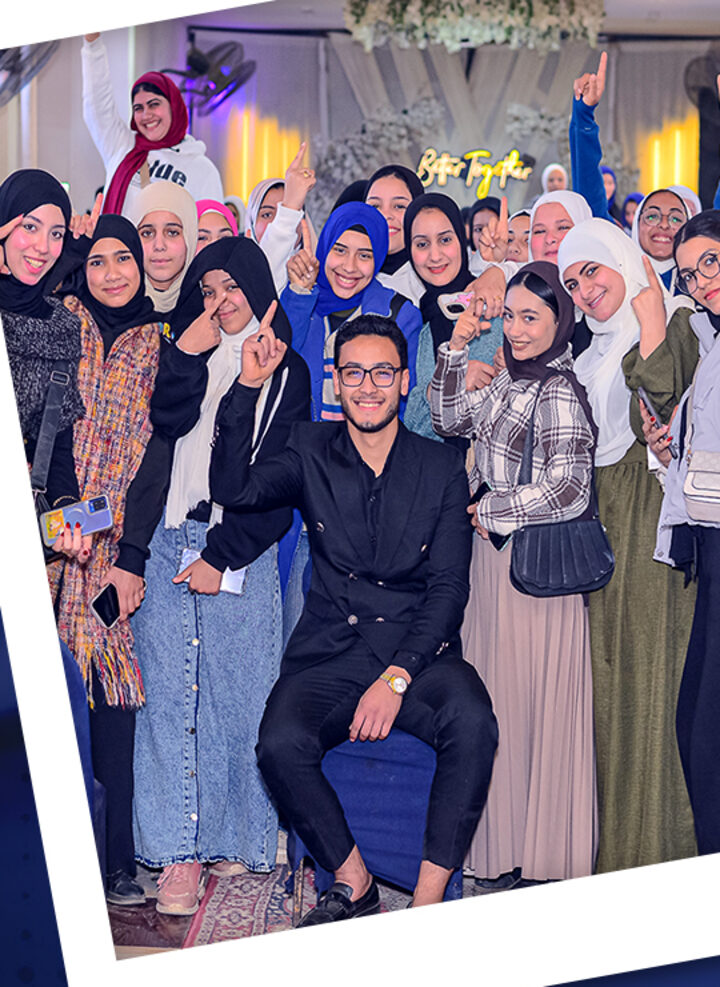
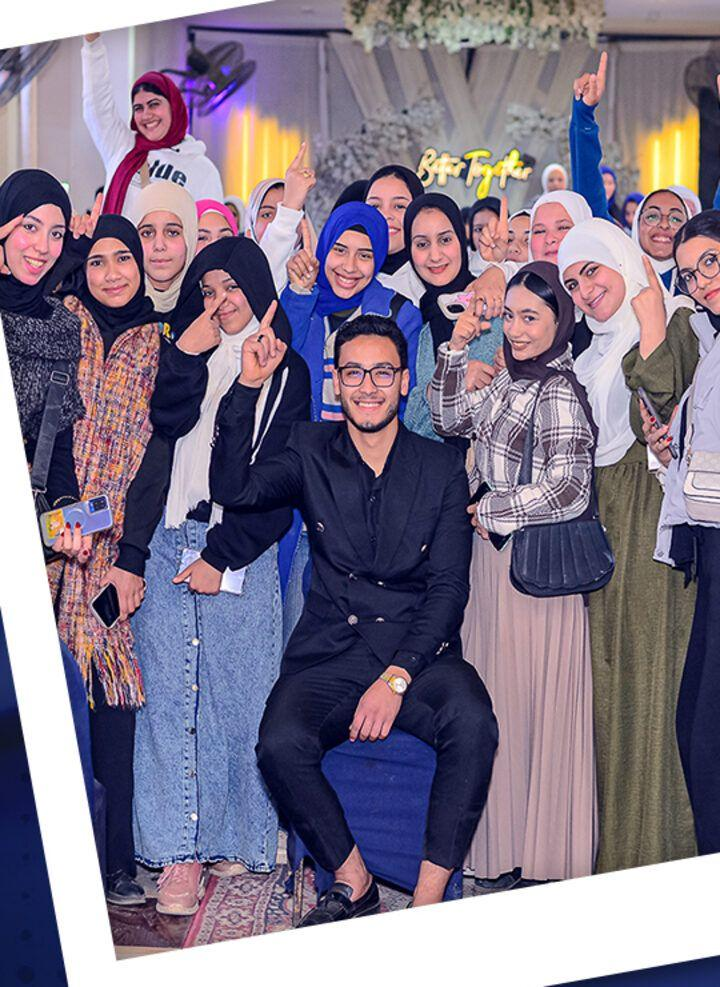
Add governorate to booking form, add honor photos section, optimize images
- Add المحافظة custom select + validation + WhatsApp message field
- Add honor-01..17 photo gallery section and rename uploaded photos
- Recompress/resize all JPEGs and lazy-load every non-critical image

diff --git a/index.html b/index.html
@@ -840,7 +840,7 @@
           <h2 class="section-title">الإدارة والتنظيم</h2>
         </div>
         <div class="teacher">
-          <img src="assets/img/portrait.jpg" alt="Mr Ahmed Ali — مؤسس أكاديمية P2S" />
+          <img src="assets/img/portrait.jpg" alt="Mr Ahmed Ali — مؤسس أكاديمية P2S" loading="lazy" decoding="async" />
           <div>
             <h3>Mr Ahmed Ali</h3>
             <div class="role">مؤسس أكاديمية P2S Academy – Path to Success</div>
@@ -909,6 +909,46 @@
               </div>
               <small class="field-error" data-error="year"></small>
             </div>
+          </div>
+          <div class="field">
+            <span>المحافظة</span>
+            <div class="cselect" data-required>
+              <button class="cselect-btn" type="button" aria-haspopup="listbox" aria-expanded="false">
+                <span class="cselect-label">اختر</span>
+                <svg class="cselect-caret" viewBox="0 0 24 24" fill="none" stroke="currentColor" stroke-width="2.5" stroke-linecap="round" stroke-linejoin="round" aria-hidden="true"><path d="m6 9 6 6 6-6"/></svg>
+              </button>
+              <ul class="cselect-menu" role="listbox" aria-label="المحافظة">
+                <li role="option" data-value="القاهرة" aria-selected="false">القاهرة</li>
+                <li role="option" data-value="الجيزة" aria-selected="false">الجيزة</li>
+                <li role="option" data-value="الإسكندرية" aria-selected="false">الإسكندرية</li>
+                <li role="option" data-value="الدقهلية" aria-selected="false">الدقهلية</li>
+                <li role="option" data-value="البحر الأحمر" aria-selected="false">البحر الأحمر</li>
+                <li role="option" data-value="البحيرة" aria-selected="false">البحيرة</li>
+                <li role="option" data-value="الفيوم" aria-selected="false">الفيوم</li>
+                <li role="option" data-value="الغربية" aria-selected="false">الغربية</li>
+                <li role="option" data-value="الإسماعيلية" aria-selected="false">الإسماعيلية</li>
+                <li role="option" data-value="المنوفية" aria-selected="false">المنوفية</li>
+                <li role="option" data-value="المنيا" aria-selected="false">المنيا</li>
+                <li role="option" data-value="القليوبية" aria-selected="false">القليوبية</li>
+                <li role="option" data-value="الوادي الجديد" aria-selected="false">الوادي الجديد</li>
+                <li role="option" data-value="السويس" aria-selected="false">السويس</li>
+                <li role="option" data-value="أسوان" aria-selected="false">أسوان</li>
+                <li role="option" data-value="أسيوط" aria-selected="false">أسيوط</li>
+                <li role="option" data-value="بني سويف" aria-selected="false">بني سويف</li>
+                <li role="option" data-value="بورسعيد" aria-selected="false">بورسعيد</li>
+                <li role="option" data-value="دمياط" aria-selected="false">دمياط</li>
+                <li role="option" data-value="الشرقية" aria-selected="false">الشرقية</li>
+                <li role="option" data-value="جنوب سيناء" aria-selected="false">جنوب سيناء</li>
+                <li role="option" data-value="كفر الشيخ" aria-selected="false">كفر الشيخ</li>
+                <li role="option" data-value="مطروح" aria-selected="false">مطروح</li>
+                <li role="option" data-value="الأقصر" aria-selected="false">الأقصر</li>
+                <li role="option" data-value="قنا" aria-selected="false">قنا</li>
+                <li role="option" data-value="شمال سيناء" aria-selected="false">شمال سيناء</li>
+                <li role="option" data-value="سوهاج" aria-selected="false">سوهاج</li>
+              </ul>
+              <input type="hidden" name="gov" value="" />
+            </div>
+            <small class="field-error" data-error="gov"></small>
           </div>
           <div class="booking-foot">
             <button class="btn btn-primary" type="submit">ابعت وهنكلّمك</button>
@@ -1089,18 +1129,18 @@
     <div class="section" style="padding-top:30px">
       <div class="wrap">
         <figure class="feature">
-          <img src="assets/img/duo.jpg" alt="طلاب P2S مع مستر أحمد علي في يوم إطلاق الأكاديمية" />
+          <img src="assets/img/duo.jpg" alt="طلاب P2S مع مستر أحمد علي في يوم إطلاق الأكاديمية" loading="lazy" decoding="async" />
           <figcaption><b>يوم إطلاق P2S في كفر الزيات</b><span>بدأنا رحلتنا معاكم — وبدأنا المشوار.</span></figcaption>
         </figure>
 
         <div class="masonry">
-          <figure><img src="assets/img/group.jpg" alt="مستر أحمد علي وسط طلاب P2S" loading="lazy" /><figcaption>أول دفعة مع مستر أحمد</figcaption></figure>
-          <figure class="polaroid"><img src="assets/img/portrait.jpg" alt="مستر أحمد علي" loading="lazy" /><figcaption>مستر أحمد علي — مؤسس P2S</figcaption></figure>
-          <figure><img src="assets/img/faces.jpg" alt="طلاب مبتسمين في يوم الإطلاق" loading="lazy" /><figcaption>الضحكة اللي بعد أول محاضرة</figcaption></figure>
-          <figure><img src="assets/img/laugh.jpg" alt="طلاب في قاعة الاحتفال" loading="lazy" /><figcaption>قاعة الإطلاق</figcaption></figure>
-          <figure><img src="assets/img/cheer.jpg" alt="طلاب بيرفعوا إيديهم في الاحتفال" loading="lazy" /><figcaption>الكلام في الآخر واحد</figcaption></figure>
-          <figure><img src="assets/img/crowd.jpg" alt="مجموعة طلاب P2S" loading="lazy" /><figcaption>دفعة ٢٠٢٦</figcaption></figure>
-          <figure><img src="assets/img/launch.jpg" alt="بوستر إطلاق أكاديمية P2S" loading="lazy" /><figcaption>بوستر «ابدأ رحلتنا معاكم»</figcaption></figure>
+          <figure><img src="assets/img/group.jpg" alt="مستر أحمد علي وسط طلاب P2S" loading="lazy" decoding="async" /><figcaption>أول دفعة مع مستر أحمد</figcaption></figure>
+          <figure class="polaroid"><img src="assets/img/portrait.jpg" alt="مستر أحمد علي" loading="lazy" decoding="async" /><figcaption>مستر أحمد علي — مؤسس P2S</figcaption></figure>
+          <figure><img src="assets/img/faces.jpg" alt="طلاب مبتسمين في يوم الإطلاق" loading="lazy" decoding="async" /><figcaption>الضحكة اللي بعد أول محاضرة</figcaption></figure>
+          <figure><img src="assets/img/laugh.jpg" alt="طلاب في قاعة الاحتفال" loading="lazy" decoding="async" /><figcaption>قاعة الإطلاق</figcaption></figure>
+          <figure><img src="assets/img/cheer.jpg" alt="طلاب بيرفعوا إيديهم في الاحتفال" loading="lazy" decoding="async" /><figcaption>الكلام في الآخر واحد</figcaption></figure>
+          <figure><img src="assets/img/crowd.jpg" alt="مجموعة طلاب P2S" loading="lazy" decoding="async" /><figcaption>دفعة ٢٠٢٦</figcaption></figure>
+          <figure><img src="assets/img/launch.jpg" alt="بوستر إطلاق أكاديمية P2S" loading="lazy" decoding="async" /><figcaption>بوستر «ابدأ رحلتنا معاكم»</figcaption></figure>
           <figure class="note-card"><div class="q">«دول كانوا زيكم بالظبط — الفرق إنهم استغلوا الفرصة صح.»</div><div class="s">مستر أحمد علي</div></figure>
         </div>
 
@@ -1117,6 +1157,37 @@
         </div>
       </div>
     </div>
+
+    <div class="section section-alt">
+      <div class="wrap">
+        <div class="section-head split">
+          <div>
+            <div class="eyebrow">تكريم الطلاب</div>
+            <h2 class="section-title">لحظات التكريم</h2>
+          </div>
+          <p class="section-lead">صور من تكريم طلاب P2S — شهادات ولوحات تقدير من مستر أحمد علي.</p>
+        </div>
+        <div class="masonry">
+          <figure><img src="assets/p2s-photos/honor-01.jpg" alt="تكريم طالب من P2S مع مستر أحمد علي" loading="lazy" decoding="async" /><figcaption>لحظة تكريم</figcaption></figure>
+          <figure><img src="assets/p2s-photos/honor-02.jpg" alt="شهادة تقدير لطالب من P2S" loading="lazy" decoding="async" /><figcaption>شهادة تقدير</figcaption></figure>
+          <figure><img src="assets/p2s-photos/honor-03.jpg" alt="تكريم طالبة من P2S مع مستر أحمد علي" loading="lazy" decoding="async" /><figcaption>من حفل التكريم</figcaption></figure>
+          <figure><img src="assets/p2s-photos/honor-04.jpg" alt="طالبة من P2S تستلم شهادة التقدير" loading="lazy" decoding="async" /><figcaption>شهادة تقدير</figcaption></figure>
+          <figure><img src="assets/p2s-photos/honor-05.jpg" alt="تكريم طالب من P2S مع مستر أحمد علي" loading="lazy" decoding="async" /><figcaption>لحظة تكريم</figcaption></figure>
+          <figure><img src="assets/p2s-photos/honor-06.jpg" alt="طالب من P2S يحمل لوحة تقدير" loading="lazy" decoding="async" /><figcaption>لوحة تقدير</figcaption></figure>
+          <figure><img src="assets/p2s-photos/honor-07.jpg" alt="تكريم طالبة من P2S" loading="lazy" decoding="async" /><figcaption>من حفل التكريم</figcaption></figure>
+          <figure><img src="assets/p2s-photos/honor-08.jpg" alt="طالب من P2S يحمل لوحة تقدير" loading="lazy" decoding="async" /><figcaption>لوحة تقدير</figcaption></figure>
+          <figure><img src="assets/p2s-photos/honor-09.jpg" alt="تكريم طالبة من P2S مع مستر أحمد علي" loading="lazy" decoding="async" /><figcaption>لحظة تكريم</figcaption></figure>
+          <figure><img src="assets/p2s-photos/honor-10.jpg" alt="تكريم طالبة من P2S" loading="lazy" decoding="async" /><figcaption>من حفل التكريم</figcaption></figure>
+          <figure><img src="assets/p2s-photos/honor-11.jpg" alt="تكريم طالبة من P2S مع مستر أحمد علي" loading="lazy" decoding="async" /><figcaption>لحظة تكريم</figcaption></figure>
+          <figure><img src="assets/p2s-photos/honor-12.jpg" alt="طالبة من P2S تستلم شهادة التقدير" loading="lazy" decoding="async" /><figcaption>شهادة تقدير</figcaption></figure>
+          <figure><img src="assets/p2s-photos/honor-13.jpg" alt="طالب من P2S يحمل لوحة تقدير" loading="lazy" decoding="async" /><figcaption>لوحة تقدير</figcaption></figure>
+          <figure><img src="assets/p2s-photos/honor-14.jpg" alt="مستر أحمد علي مع طالب من P2S" loading="lazy" decoding="async" /><figcaption>من حفل التكريم</figcaption></figure>
+          <figure><img src="assets/p2s-photos/honor-15.jpg" alt="تكريم طالبة من P2S مع مستر أحمد علي" loading="lazy" decoding="async" /><figcaption>لحظة تكريم</figcaption></figure>
+          <figure><img src="assets/p2s-photos/honor-16.jpg" alt="تكريم طالبة من P2S" loading="lazy" decoding="async" /><figcaption>شهادة تقدير</figcaption></figure>
+          <figure><img src="assets/p2s-photos/honor-17.jpg" alt="طالب وطالبة من P2S في مكتب الأكاديمية" loading="lazy" decoding="async" /><figcaption>من داخل الأكاديمية</figcaption></figure>
+        </div>
+      </div>
+    </div>
   </section>
 
 </main>
@@ -1124,7 +1195,7 @@
 <footer class="site-footer">
   <div class="wrap">
     <a class="foot-brand" href="#academy">
-      <img src="assets/img/mark-light.png" alt="P2S Academy" />
+      <img src="assets/img/mark-light.png" alt="P2S Academy" loading="lazy" decoding="async" />
       <span><b>P2S Academy</b><small>طريقك لكلية التجارة</small></span>
     </a>
     <nav class="foot-links" aria-label="روابط سريعة">
@@ -1435,7 +1506,7 @@
         phone.classList.add('is-invalid'); showFieldError('phone','اكتب رقم موبايل مصري صحيح'); ok = false; firstBad = firstBad || phone;
       } else { phone.classList.remove('is-invalid'); clearFieldError('phone'); }
 
-      [['diploma','اختر نوع الدبلوم'],['year','اختر سنة التخرج']].forEach(function(pair){
+      [['diploma','اختر نوع الدبلوم'],['year','اختر سنة التخرج'],['gov','اختر المحافظة']].forEach(function(pair){
         var cs = bookingForm.querySelector('.cselect input[name="' + pair[0] + '"]').closest('.cselect');
         if(!cs.querySelector('input[type="hidden"]').value){
           cs.classList.add('is-invalid'); showFieldError(pair[0], pair[1]); ok = false; firstBad = firstBad || cs.querySelector('.cselect-btn');
@@ -1456,7 +1527,8 @@
       var msg = 'طلب حجز جديد\nالاسم: ' + data.name +
                 '\nالموبايل: ' + data.phone +
                 '\nنوع الدبلوم: ' + data.diploma +
-                '\nسنة التخرج: ' + data.year;
+                '\nسنة التخرج: ' + data.year +
+                '\nالمحافظة: ' + data.gov;
       window.open('https://wa.me/201030263066?text=' + encodeURIComponent(msg), '_blank', 'noopener');
     }
 
